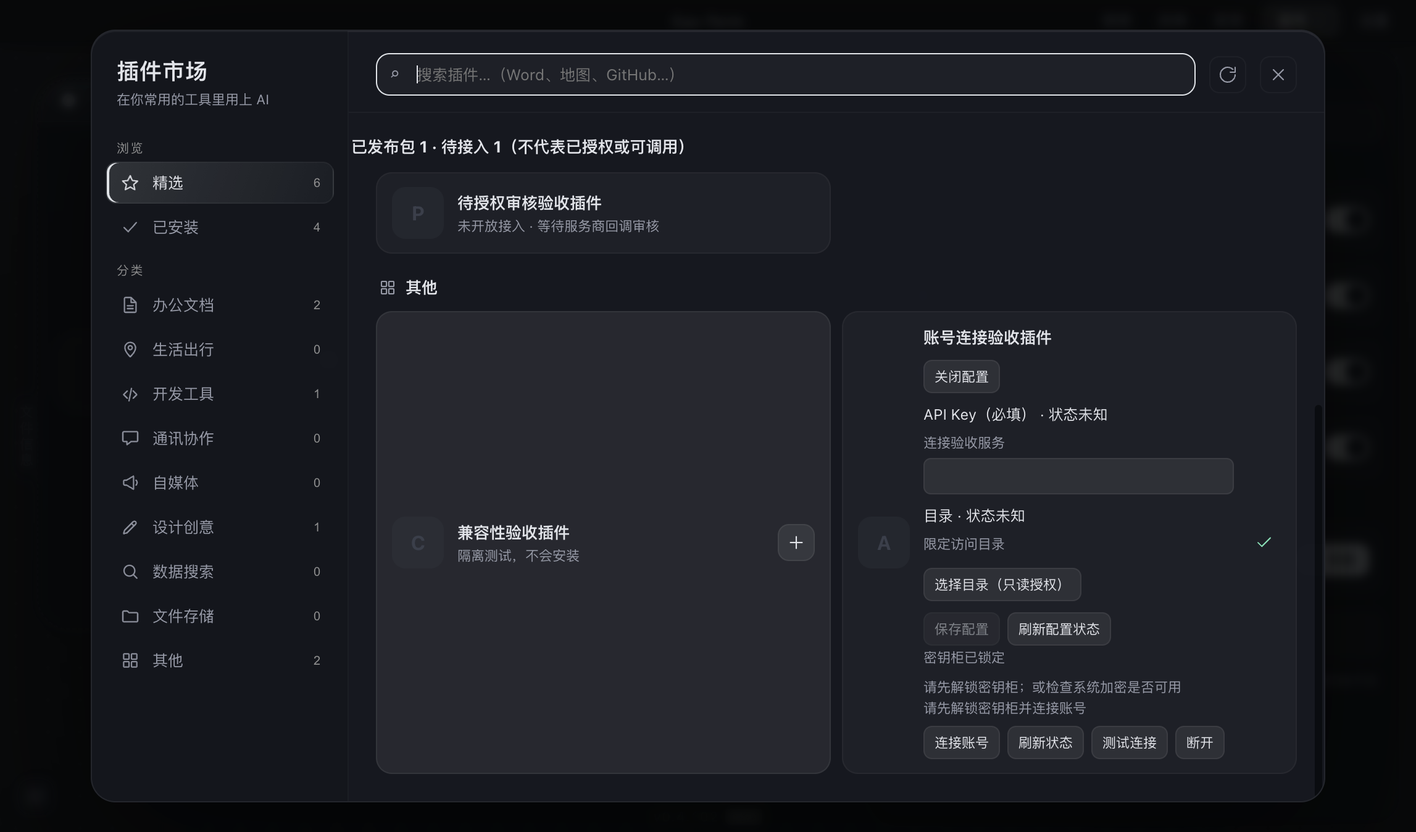
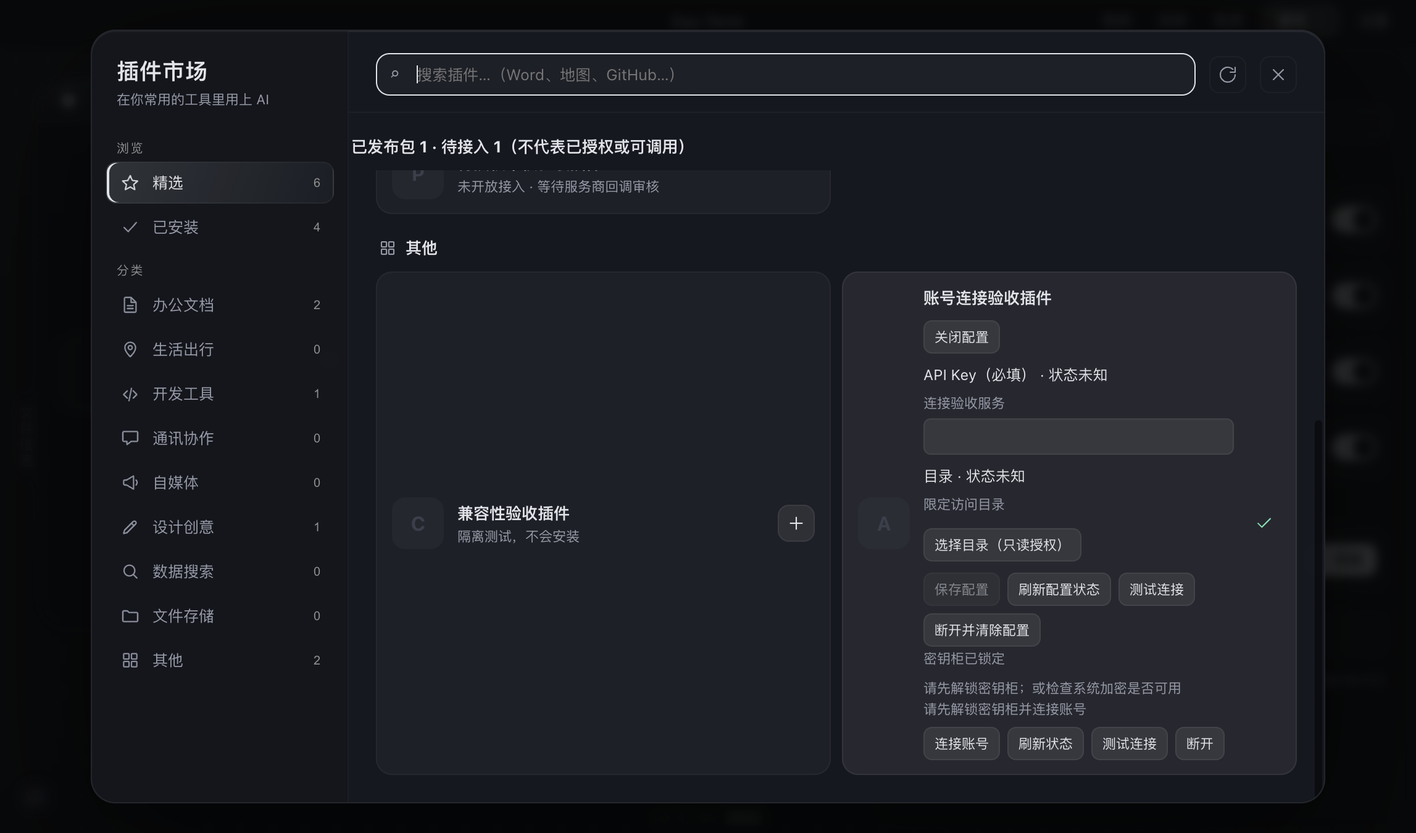
feat(plugins): test and revoke configured plugin connections

diff --git a/docs/verification/plugin-marketplace/progress.html b/docs/verification/plugin-marketplace/progress.html
@@ -1,16 +1,16 @@
-<!doctype html><html lang="zh-CN"><head><meta charset="utf-8"><meta name="viewport" content="width=device-width,initial-scale=1"><title>插件接入 · 实时进度</title><style>*{box-sizing:border-box}body{margin:0;background:#0a0a0a;color:#f5f5f5;font:15px/1.75 -apple-system,BlinkMacSystemFont,"PingFang SC",sans-serif}main{max-width:1080px;padding:28px;margin:auto}h1{font-size:29px;letter-spacing:-.02em;margin:8px 0}h2{font-size:12px;color:#a3a3a3;letter-spacing:.15em}section{background:rgba(23,23,23,.5);border:1px solid #262626;border-radius:14px;padding:20px;margin:18px 0}.muted{color:#a3a3a3}.warn{border-left:2px solid #fbbf24}.good{color:#6ee7b7}table{width:100%;border-collapse:collapse;font-size:13.5px}td{padding:9px;border-bottom:1px solid #262626}pre{background:#111;white-space:pre-wrap;overflow-wrap:anywhere;padding:16px;border-radius:12px;font-size:12px}.tw{overflow-x:auto}</style></head><body><main><h2>LIVE TASK STATUS / 本地轮询节点</h2><h1>插件市场统一接入</h1><p class="muted">按原 Demo 32 项接入 · 未上线 · 不修改正式应用</p><section class="warn"><b>通过 · Bearer接线与GitHub候选包完整检查</b><p>本次任务耗时 40 秒</p><p class="muted">最后采样：2026-09-18T08:28:06-07:00</p><p id="stale"></p></section><section><h2>DELIVERY / 交付阶段</h2><div class="tw"><table><tr><td>清单与设计</td><td class="good">已确认 · 32 项</td></tr><tr><td>兼容性门禁</td><td>代码已接线 · 不兼容拒绝已隔离 UI 验证</td></tr><tr><td>打包与安装边界</td><td>清单确认后防变更、普通更新失败回退已测试</td></tr><tr><td>远程 MCP / 统一授权</td><td>远程宿主、授权控件、连接测试已接线；真实账号端到端未验证</td></tr><tr><td>32 项插件接入</td><td>未完成；不以目录卡片计完成数</td></tr><tr><td>市场独立更新验收</td><td>未完成</td></tr></table></div></section><section><h2>PROCESS / 真实任务输出</h2><pre>✔ **data 握手必须带凭证之外的流水号，且流水号要够长** —— 不然能被抢流 (0.067042ms)
-✔ 切行：收全了给行和剩下的字节 (0.062583ms)
-✔ 切行：\r\n 也认 (0.054291ms)
-✔ 切行：没换行且没超长 → need-more (0.057125ms)
-✔ **切行：不发换行的连接要被掐掉**，不能一直缓冲 (0.053916ms)
-✔ 手机该连的主机名 (0.037583ms)
-✔ **读行要按 UTF-8 解** —— 错误原因是给人看的中文 (0.052084ms)
-✔ 多字节字符跨在换行两侧也不会切坏 (0.0355ms)
-ℹ tests 3374
+<!doctype html><html lang="zh-CN"><head><meta charset="utf-8"><meta name="viewport" content="width=device-width,initial-scale=1"><title>插件接入 · 实时进度</title><style>*{box-sizing:border-box}body{margin:0;background:#0a0a0a;color:#f5f5f5;font:15px/1.75 -apple-system,BlinkMacSystemFont,"PingFang SC",sans-serif}main{max-width:1080px;padding:28px;margin:auto}h1{font-size:29px;letter-spacing:-.02em;margin:8px 0}h2{font-size:12px;color:#a3a3a3;letter-spacing:.15em}section{background:rgba(23,23,23,.5);border:1px solid #262626;border-radius:14px;padding:20px;margin:18px 0}.muted{color:#a3a3a3}.warn{border-left:2px solid #fbbf24}.good{color:#6ee7b7}table{width:100%;border-collapse:collapse;font-size:13.5px}td{padding:9px;border-bottom:1px solid #262626}pre{background:#111;white-space:pre-wrap;overflow-wrap:anywhere;padding:16px;border-radius:12px;font-size:12px}.tw{overflow-x:auto}</style></head><body><main><h2>LIVE TASK STATUS / 本地轮询节点</h2><h1>插件市场统一接入</h1><p class="muted">按原 Demo 32 项接入 · 未上线 · 不修改正式应用</p><section class="warn"><b>通过 · 全量回归发现 PTY 启动超时：隔离复核原失败</b><p>本次任务耗时 55 秒</p><p class="muted">最后采样：2026-09-18T08:43:52-07:00</p><p id="stale"></p></section><section><h2>DELIVERY / 交付阶段</h2><div class="tw"><table><tr><td>清单与设计</td><td class="good">已确认 · 32 项</td></tr><tr><td>兼容性门禁</td><td>代码已接线 · 不兼容拒绝已隔离 UI 验证</td></tr><tr><td>打包与安装边界</td><td>清单确认后防变更、普通更新失败回退已测试</td></tr><tr><td>远程 MCP / 统一授权</td><td>远程宿主、授权控件、连接测试已接线；真实账号端到端未验证</td></tr><tr><td>32 项插件接入</td><td>未完成；不以目录卡片计完成数</td></tr><tr><td>市场独立更新验收</td><td>未完成</td></tr></table></div></section><section><h2>PROCESS / 真实任务输出</h2><pre>✔ **data 握手必须带凭证之外的流水号，且流水号要够长** —— 不然能被抢流 (0.092625ms)
+✔ 切行：收全了给行和剩下的字节 (0.079458ms)
+✔ 切行：\r\n 也认 (0.051292ms)
+✔ 切行：没换行且没超长 → need-more (0.033167ms)
+✔ **切行：不发换行的连接要被掐掉**，不能一直缓冲 (0.043125ms)
+✔ 手机该连的主机名 (0.040541ms)
+✔ **读行要按 UTF-8 解** —— 错误原因是给人看的中文 (0.041375ms)
+✔ 多字节字符跨在换行两侧也不会切坏 (0.048333ms)
+ℹ tests 3377
 ℹ suites 60
-ℹ pass 3356
+ℹ pass 3359
 ℹ fail 0
 ℹ cancelled 0
 ℹ skipped 18
 ℹ todo 0
-ℹ duration_ms 37402.16275</pre></section><p class="muted">运行时每 5 秒采样并刷新；结束后显示真实退出结果。页面轮询不会启动任务，也不会让 AI 在会话结束后自行继续开发。</p><p>反馈指令：<code>汇报当前阻碍</code></p></main><script>const age=(Date.now()-Date.parse('2026-09-18T08:28:06-07:00'))/1000;if(age>30&&false)document.getElementById('stale').textContent='采样已超过 30 秒未更新，任务状态待核实，不能据此认定仍在运行。';</script></body></html>
+ℹ duration_ms 39938.556625</pre></section><p class="muted">运行时每 5 秒采样并刷新；结束后显示真实退出结果。页面轮询不会启动任务，也不会让 AI 在会话结束后自行继续开发。</p><p>反馈指令：<code>汇报当前阻碍</code></p></main><script>const age=(Date.now()-Date.parse('2026-09-18T08:43:52-07:00'))/1000;if(age>30&&false)document.getElementById('stale').textContent='采样已超过 30 秒未更新，任务状态待核实，不能据此认定仍在运行。';</script></body></html>

diff --git a/src/main/pluginConnections/configurationActions.ts b/src/main/pluginConnections/configurationActions.ts
@@ -1,12 +1,14 @@
 import type {PluginInfo} from '../../shared/types'
-export type ConfigurationResult={ok:true;configured:string[]}|{ok:false;error:string}
+export type ConfigurationResult={ok:true;configured:string[];tools?:number}|{ok:false;error:string}
 interface Dependencies {
- acquire:()=>{assertActive:()=>void;dispose:()=>void}
+ acquire:(info:PluginInfo)=>{assertActive:()=>void;dispose:()=>void}
  find:(id:string)=>PluginInfo|undefined
- confirm:(info:PluginInfo)=>Promise<boolean>
+ confirm:(info:PluginInfo,action:'save'|'clear')=>Promise<boolean>
  assertIdle:(name:string)=>void
  load:(info:PluginInfo)=>Record<string,string>|undefined
  save:(info:PluginInfo,values:Record<string,string>)=>void
+ clear?:(info:PluginInfo)=>void
+ probe?:(info:PluginInfo)=>Promise<number>
  pickDirectory?:(info:PluginInfo,field:string)=>Promise<string|undefined>
 }
 export const configurationIdentity=(info:PluginInfo)=>JSON.stringify([info.name,info.root,info.config,info.mcp,info.remote,info.permissions])
@@ -16,10 +18,20 @@ export function createConfigurationActions(deps:Dependencies){
  return async(action:unknown,id:unknown,patch?:unknown):Promise<ConfigurationResult>=>{
   let lease:ReturnType<Dependencies["acquire"]>|undefined
   try{
-   if(typeof action!=='string'||!['status','save','directory'].includes(action)||typeof id!=='string'||!/^eas:[a-z0-9][a-z0-9-]{0,39}$/.test(id))throw Error('配置参数无效')
+   if(typeof action!=='string'||!['status','save','directory','test','clear'].includes(action)||typeof id!=='string'||!/^eas:[a-z0-9][a-z0-9-]{0,39}$/.test(id))throw Error('配置参数无效')
    const info=deps.find(id)
    if(!info||info.cli!=='eas'||!info.config)throw Error('插件没有配置声明')
-   if(action!=='status')lease=deps.acquire()
+   if(action!=='status')lease=deps.acquire(info)
+   if(action==='test'){
+    if(info.enabled===false||!deps.probe)throw Error('插件未启用或不支持测试连接')
+    const snapshot=configurationIdentity(info),tools=await deps.probe(info)
+    lease!.assertActive()
+    const current=deps.find(id)
+    if(!current||current.enabled===false||configurationIdentity(current)!==snapshot)throw Error('插件配置已变化，请重新测试')
+    if(!Number.isInteger(tools)||tools<0)throw Error('插件返回的工具列表无效')
+    const values=deps.load(info)??{}
+    return {ok:true,configured:info.config.fields.filter(f=>!!values[f.id]).map(f=>f.id),tools}
+   }
    if(action==='directory'){
     const field=info.config.fields.find(f=>f.id===patch&&f.type==='directory')
     if(!field||!deps.pickDirectory)throw Error('目录选择参数无效')
@@ -34,16 +46,17 @@ export function createConfigurationActions(deps:Dependencies){
     deps.save(info,values)
     return {ok:true,configured:info.config.fields.filter(f=>!!values[f.id]).map(f=>f.id)}
    }
-   if(action==='save'){
-    if(!patch||typeof patch!=='object'||Array.isArray(patch)||Object.keys(patch).length>32)throw Error('配置输入无效')
+   if(action==='save'||action==='clear'){
+    if(action==='save'&&(!patch||typeof patch!=='object'||Array.isArray(patch)||Object.keys(patch).length>32))throw Error('配置输入无效')
     const snapshot=configurationIdentity(info)
-    if(!await deps.confirm(info))return {ok:false,error:'已取消'}
+    if(!await deps.confirm(info,action))return {ok:false,error:'已取消'}
     lease!.assertActive()
     const current=deps.find(id)
     if(!current||configurationIdentity(current)!==snapshot)throw Error('插件配置已变化，请重新确认')
+    if(action==='clear'){if(!deps.clear)throw Error('清除配置不可用');deps.clear(info);return {ok:true,configured:[]}}
     deps.assertIdle(info.name)
     const values={...deps.load(info)}
-    for(const [key,value] of Object.entries(patch)){
+    for(const [key,value] of Object.entries(patch as Record<string,unknown>)){
      const field=info.config.fields.find(f=>f.id===key)
      if(!field)throw Error('存在未知配置字段')
      if(value===null){delete values[key];continue}

diff --git a/src/renderer/src/features/canvas/PluginConfigurationControls.tsx b/src/renderer/src/features/canvas/PluginConfigurationControls.tsx
@@ -4,15 +4,15 @@ export function PluginConfigurationControls({plugin}:{plugin:PluginInfo}):JSX.El
  const [open,setOpen]=useState(false),[busy,setBusy]=useState(false),[configured,setConfigured]=useState<string[]|null>(null),[draft,setDraft]=useState<Record<string,string|null>>({}),[message,setMessage]=useState('')
  const generation=useRef(0)
  useEffect(()=>()=>{generation.current++},[plugin.id])
- const run=async(action:'status'|'save'|'directory',field?:string)=>{
+ const run=async(action:'status'|'save'|'directory'|'test'|'clear',field?:string)=>{
   const seq=++generation.current;setBusy(true)
   try{
    const result=await window.api.plugins.configuration(action,plugin.id,action==='save'?draft:action==='directory'?field:undefined)
    if(seq!==generation.current)return
-   if(result.ok){setConfigured(result.configured);setMessage(action==='save'?'配置已保存；尚未测试连接，不代表插件可调用':'配置状态已刷新')}
+   if(result.ok){setConfigured(result.configured);setMessage(action==='test'?`连接测试通过：发现 ${result.tools} 个工具；未执行业务操作`:action==='clear'?'本地配置已清除；原连接已关闭，服务商授权需到上游撤销':action==='save'?'配置已保存；尚未测试连接，不代表插件可调用':'配置状态已刷新')}
    else {setConfigured(null);setMessage(result.error)}
   }catch{if(seq===generation.current)setMessage('配置操作失败，请重试')}
-  finally{if(seq===generation.current){setBusy(false);if(action==='save')setDraft({})}}
+  finally{if(seq===generation.current){setBusy(false);if(action==='save'||action==='clear')setDraft({})}}
  }
  return <div className="pm-auth" data-plugin-config={plugin.id}>
   <div className="pm-auth-actions"><button type="button" disabled={busy} onClick={()=>{setOpen(!open);setDraft({});if(!open)void run('status')}}>{open?'关闭配置':'配置插件'}</button></div>
@@ -23,7 +23,7 @@ export function PluginConfigurationControls({plugin}:{plugin:PluginInfo}):JSX.El
     {field.type==='directory'?<span className="pm-auth-actions"><button type="button" disabled={busy} onClick={()=>void run('directory',field.id)}>选择目录（{field.access==='read'?'只读':'读写'}授权）</button></span>:field.type==='enum'?<select disabled={busy} value={draft[field.id]??''} onChange={e=>setDraft(d=>({...d,[field.id]:e.target.value}))}><option value="" disabled>选择选项（不改则保留）</option>{field.options.map(o=><option key={o.value} value={o.value}>{o.label}</option>)}</select>:<input disabled={busy} autoComplete="off" type={field.type==='secret'?'password':'text'} maxLength={field.type==='string'?field.maxLength:16384} value={draft[field.id]??''} onChange={e=>setDraft(d=>{const n={...d};if(e.target.value)n[field.id]=e.target.value;else delete n[field.id];return n})}/>}
     {!field.required&&field.type!=='directory'&&<button type="button" disabled={busy} onClick={()=>setDraft(d=>({...d,[field.id]:null}))}>{draft[field.id]===null?'保存时清除':'清除此项'}</button>}
    </label>)}
-   <div className="pm-auth-actions"><button type="submit" disabled={busy||!Object.keys(draft).length}>保存配置</button><button type="button" disabled={busy} onClick={()=>void run('status')}>刷新配置状态</button></div>
+   <div className="pm-auth-actions"><button type="submit" disabled={busy||!Object.keys(draft).length}>保存配置</button><button type="button" disabled={busy} onClick={()=>void run('status')}>刷新配置状态</button><button type="button" disabled={busy||!!Object.keys(draft).length} onClick={()=>void run('test')}>测试连接</button><button type="button" disabled={busy} onClick={()=>void run('clear')}>断开并清除配置</button></div>
    <div className="pm-cd" role="status">{busy?'配置操作中…':message}</div>
   </form>}
  </div>

diff --git a/src/main/pluginConfiguration.ts b/src/main/pluginConfiguration.ts
@@ -1,3 +1,4 @@
+import {ConfigurationLeases} from './pluginConnections/configurationLeases.ts'
 import type {FetchLike} from '@modelcontextprotocol/sdk/shared/transport.js'
 import {connectBearerConfiguration} from './pluginConnections/bearerConfiguration.ts'
 import { configurationEnvironment } from './pluginConnections/configurationRuntime.ts'
@@ -9,12 +10,14 @@ import type {PluginInfo} from '../shared/types'
 import {acquirePluginCredentialAccess} from './secrets'
 import {PluginCredentialStore} from './pluginConnections/credentialStore.ts'
 import {configurationIdentity} from './pluginConnections/configurationActions.ts'
+const configurationLeases=new ConfigurationLeases()
+export const acquireConfigurationAccess=(info:PluginInfo)=>configurationLeases.bind(info.name,acquirePluginCredentialAccess())
 /** Fixed main-owned storage; no IPC caller path or credential namespace selection. */
 function access<T>(info:PluginInfo,op:(store:PluginCredentialStore,scope:{plugin:string;issuer:string;resource:string;account:string},lease:ReturnType<typeof acquirePluginCredentialAccess>)=>T):T{
  if(!app.isReady()||info.cli!=='eas'||!info.config)throw Error('插件配置不可用')
  const scope={plugin:info.name,issuer:'eas:configuration:v1',resource:createHash('sha256').update(configurationIdentity(info)).digest('hex'),account:'local-primary'}
  const store=new PluginCredentialStore(path.join(fs.realpathSync(app.getPath('userData')),'plugin-credentials'))
- const lease=acquirePluginCredentialAccess()
+ const lease=acquireConfigurationAccess(info)
  try{return op(store,scope,lease)}finally{lease.dispose()}
 }
 export const loadPluginConfiguration=(info:PluginInfo)=>access(info,(store,scope,lease)=>store.loadConfiguration(scope,lease))
@@ -23,7 +26,7 @@ export const savePluginConfiguration=(info:PluginInfo,values:Record<string,strin
 /** Long-lived lease: locking the vault closes precisely the configured child. */
 export function connectPluginConfiguration(info:PluginInfo){
  if(!app.isReady()||info.cli!=='eas'||!info.config)throw Error('插件配置不可用')
- const lease=acquirePluginCredentialAccess()
+ const lease=acquireConfigurationAccess(info)
  try{
   const scope={plugin:info.name,issuer:'eas:configuration:v1',resource:createHash('sha256').update(configurationIdentity(info)).digest('hex'),account:'local-primary'}
   const store=new PluginCredentialStore(path.join(fs.realpathSync(app.getPath('userData')),'plugin-credentials'))
@@ -36,10 +39,16 @@ export function connectPluginConfiguration(info:PluginInfo){
 /** Holds the original vault lease for the entire remote connection. */
 export function connectPluginBearer(info:PluginInfo,fetch:FetchLike){
  if(!app.isReady()||info.cli!=='eas'||info.remote?.auth!=='bearer')throw Error('Bearer配置不可用')
- const lease=acquirePluginCredentialAccess()
+ const lease=acquireConfigurationAccess(info)
  try{
   const scope={plugin:info.name,issuer:'eas:configuration:v1',resource:createHash('sha256').update(configurationIdentity(info)).digest('hex'),account:'local-primary'}
   const store=new PluginCredentialStore(path.join(fs.realpathSync(app.getPath('userData')),'plugin-credentials'))
   return connectBearerConfiguration({info,lease,fetch,load:()=>store.loadConfiguration(scope,lease)})
  }catch(error){lease.dispose();throw error}
+}
+
+/** Atomically replace current encrypted values, then revoke only this plugin's old leases. */
+export function clearPluginConfiguration(info:PluginInfo){
+ savePluginConfiguration(info,{})
+ configurationLeases.invalidate(info.name)
 }

diff --git a/src/main/plugins.ts b/src/main/plugins.ts
@@ -1,7 +1,6 @@
-import { acquirePluginCredentialAccess } from './secrets'
 import { createDirectoryGrant } from './pluginConnections/directoryGrant.ts'
 import { createConfigurationActions } from './pluginConnections/configurationActions.ts'
-import { loadPluginConfiguration, savePluginConfiguration } from './pluginConfiguration'
+import { loadPluginConfiguration, savePluginConfiguration, clearPluginConfiguration, acquireConfigurationAccess } from './pluginConfiguration'
 import { createAuthorizationActions } from './pluginConnections/authorizationActions.ts'
 import { getPluginAuthorization } from './pluginAuthorization'
 import { BrowserWindow, dialog } from 'electron'
@@ -258,8 +257,8 @@ export function registerPluginHandlers(): void {
   guardedHandle('plugins:configuration', async(event,args:{action?:unknown;id?:unknown;values?:unknown})=>{
     const win=BrowserWindow.fromWebContents(event.sender)
     if(!win||win.isDestroyed())return {ok:false,error:'工作台窗口已关闭'}
-    const {assertPluginPackageIdle}=await import('./pluginHost')
-    return createConfigurationActions({acquire:acquirePluginCredentialAccess,find:findPlugin,load:loadPluginConfiguration,save:savePluginConfiguration,assertIdle:assertPluginPackageIdle,pickDirectory:async(info,id)=>{
+    const {assertPluginPackageIdle,testPluginConnection}=await import('./pluginHost')
+    return createConfigurationActions({acquire:acquireConfigurationAccess,clear:clearPluginConfiguration,probe:testPluginConnection,find:findPlugin,load:loadPluginConfiguration,save:savePluginConfiguration,assertIdle:assertPluginPackageIdle,pickDirectory:async(info,id)=>{
       const field=info.config!.fields.find(f=>f.id===id)!
       if(field.type!=='directory')throw Error('目录字段无效')
       const picked=await dialog.showOpenDialog(win,{title:`${info.displayName} · ${field.label} · ${field.access==='read'?'只读':'读写'}授权`,properties:['openDirectory']})
@@ -267,7 +266,8 @@ export function registerPluginHandlers(): void {
       const grant=createDirectoryGrant(picked.filePaths[0],field.access)
       const confirm=await dialog.showMessageBox(win,{type:'warning',title:'确认插件目录授权',message:`允许「${info.displayName}」${field.access==='read'?'读取':'读写'}此目录？`,detail:`${JSON.parse(grant).path}\n用途：${field.purpose}\nstdio插件是本机代码，这不是操作系统沙箱。`,buttons:['取消','授权此目录'],defaultId:0,cancelId:0})
       return confirm.response===1&&!win.isDestroyed()?grant:undefined
-    },confirm:async info=>{
+    },confirm:async (info,action)=>{
+      if(action==='clear'){const r=await dialog.showMessageBox(win,{type:'warning',title:'断开并清除插件配置',message:`清除「${info.displayName}」的本地配置和目录授权？`,detail:'将关闭该插件依赖配置的本地连接。不删除业务文件，不撤销上游已发生的操作或服务商授权。重新使用需重新配置。',buttons:['取消','断开并清除'],defaultId:0,cancelId:0});return r.response===1&&!win.isDestroyed()}
       const result=await dialog.showMessageBox(win,{type:'question',title:'保存插件配置',message:`保存「${info.displayName}」的配置？`,detail:'配置加密保存在本机，密钥不回显。配置变更不会自动启动插件或连接服务。目录必须单独授权。',buttons:['取消','保存'],defaultId:0,cancelId:0})
       return result.response===1&&!win.isDestroyed()
     }})(args?.action,args?.id,args?.values)

diff --git a/src/main/pluginConnections/configurationActions.test.ts b/src/main/pluginConnections/configurationActions.test.ts
@@ -52,3 +52,20 @@ test('locking and unlocking during either native dialog irreversibly invalidates
   assert.equal(writes,0);assert.equal(disposed,1)
  }
 })
+
+test('configuration test probes shared host without saving, returns tool count only, and rejects stale success',async()=>{
+ const leases=new CredentialLeases(()=>true);let probes=0,writes=0,mode='ok',current=info
+ const run=createConfigurationActions({acquire:()=>leases.acquire(),find:()=>current,confirm:async()=>true,assertIdle(){},load:()=>({key:'private',region:'cn'}),save:()=>{writes++},probe:async()=>{probes++;if(mode==='lock')leases.invalidate();if(mode==='change')current={...info,root:'/changed'};return 3}})
+ assert.deepEqual(await run('test',info.id),{ok:true,configured:['key','region'],tools:3})
+ assert.equal(writes,0);assert.equal(probes,1)
+ mode='lock';assert.equal((await run('test',info.id)).ok,false)
+ mode='change';assert.equal((await run('test',info.id)).ok,false)
+ current={...info,enabled:false};assert.equal((await run('test',info.id)).ok,false);assert.equal(probes,3)
+})
+
+test('clear asks explicitly and clears without requiring inactive host; cancellation preserves configuration',async()=>{
+ let cleared=0,allowed=false,confirmation=''
+ const run=createConfigurationActions({acquire,find:()=>info,confirm:async(_info,action)=>{confirmation=action;return allowed},assertIdle(){throw Error('active host must be invalidated, not ignored')},load:()=>({key:'private'}),save:()=>{throw Error('ordinary save not allowed')},clear:()=>{cleared++}})
+ assert.equal((await run('clear',info.id)).ok,false);assert.equal(cleared,0)
+ allowed=true;assert.deepEqual(await run('clear',info.id),{ok:true,configured:[]});assert.equal(cleared,1);assert.equal(confirmation,'clear')
+})

diff --git a/src/main/pluginConnections/configurationLeases.ts b/src/main/pluginConnections/configurationLeases.ts
@@ -1,0 +1,16 @@
+type Lease={signal:AbortSignal;assertActive():void;dispose():void}
+/** Revocation is plugin-scoped and irreversible for both dialogs and live connections. */
+export class ConfigurationLeases {
+ private readonly scopes=new Map<string,Set<AbortController>>()
+ bind<T extends Lease>(name:string,lease:T):T{
+  const controllers=this.scopes.get(name)??new Set<AbortController>(),controller=new AbortController()
+  this.scopes.set(name,controllers);controllers.add(controller)
+  const signal=AbortSignal.any([lease.signal,controller.signal])
+  return {...lease,signal,assertActive:()=>{lease.assertActive();if(signal.aborted)throw Error('插件配置授权已失效')},dispose:()=>{
+   controller.abort();controllers.delete(controller)
+   if(!controllers.size&&this.scopes.get(name)===controllers)this.scopes.delete(name)
+   lease.dispose()
+  }}
+ }
+ invalidate(name:string){const controllers=this.scopes.get(name);this.scopes.delete(name);for(const c of controllers??[])c.abort()}
+}

diff --git a/src/preload/index.ts b/src/preload/index.ts
@@ -1133,7 +1133,7 @@ const api = {
     showLog: (): Promise<{ ok: boolean }> => ipcRenderer.invoke('diag:showLog')
   },
   plugins: {
-    configuration: (action: 'status'|'save'|'directory', id: string, values?: Record<string,string|null>|string): Promise<{ok:true;configured:string[]}|{ok:false;error:string}> => ipcRenderer.invoke('plugins:configuration', {action,id,values}),
+    configuration: (action: 'status'|'save'|'directory'|'test'|'clear', id: string, values?: Record<string,string|null>|string): Promise<{ok:true;configured:string[];tools?:number}|{ok:false;error:string}> => ipcRenderer.invoke('plugins:configuration', {action,id,values}),
     authorization: (action: PluginAuthorizationAction, id: string): Promise<PluginAuthorizationResult> => ipcRenderer.invoke('plugins:authorization', {action,id}),
     /** 已装的 CLI 插件全表。**每次都当场扫盘**（见 main/plugins.ts），
      *  用户刚在终端里装完一个，回画布就能看到，不用重开软件。 */

diff --git a/src/main/pluginConnections/configurationLeases.test.ts b/src/main/pluginConnections/configurationLeases.test.ts
@@ -1,0 +1,11 @@
+import {test} from 'node:test'
+import assert from 'node:assert/strict'
+import {CredentialLeases} from './credentialLease.ts'
+import {ConfigurationLeases} from './configurationLeases.ts'
+test('clearing one plugin revokes pending writes and runtime leases, but not other plugins or future authorization',()=>{
+ const vault=new CredentialLeases(()=>true),scopes=new ConfigurationLeases()
+ const pending=scopes.bind('one',vault.acquire()),runtime=scopes.bind('one',vault.acquire()),other=scopes.bind('two',vault.acquire())
+ scopes.invalidate('one');assert.equal(runtime.signal.aborted,true);assert.throws(()=>pending.assertActive());other.assertActive()
+ const next=scopes.bind('one',vault.acquire());next.assertActive();pending.dispose();runtime.dispose();next.assertActive()
+ vault.invalidate();assert.equal(next.signal.aborted,true);assert.throws(()=>other.assertActive());next.dispose();other.dispose()
+})

diff --git a/docs/architecture/13-所有权矩阵.md b/docs/architecture/13-所有权矩阵.md
@@ -278,8 +278,10 @@ Wikipedia地址策略同步：修改endpointPolicy公开地址判据时需运行
 
 路径同步补充：批准的 v2 位置为 `v2/registry.json`，builder/publisher/tests/CLI 输出说明保持一致；发布暂存和备份扁平名必须区分两个 registry.json，禁止只取 basename。客户端 URL 切换仍待独立验收。
 
-配置接口同步链：preload.plugins.configuration / plugins.ts guarded handler / configurationActions / pluginConfiguration / CredentialStore / PluginConfigurationControls。不得把status改成返回配置值或允许renderer指定scope/path/endpoint。目录选择已由主进程原生选择器及二次确认生成 inode/access grant；stdio 专属配置环境与长期租约已接线。remote+config 仍未接通，保留该组合的启动拒绝。
+配置接口同步链：preload.plugins.configuration / plugins.ts guarded handler / configurationActions / pluginConfiguration / CredentialStore / PluginConfigurationControls。不得把status改成返回配置值或允许renderer指定scope/path/endpoint。目录选择已由主进程原生选择器及二次确认生成 inode/access grant；stdio 专属配置环境与长期租约已接线。remote+config 仅严格 Bearer 单 secret 组合接通，其他组合保持失败关闭。
 
-配置确认代次同步：configurationActions.acquire 必须由 plugins.ts 注入 acquirePluginCredentialAccess；租约覆盖原生保存/选目录对话，返回后先 assertActive，再同步校验/写入，finally dispose。锁定再解锁不能复活旧确认。configured stdio 经 pluginHost 向 McpClient 传 suppressStderr，错误输出只消费不持久化；握手错误日志也隐藏原始详情。此为日志边界，不承诺恶意插件的工具结果不会返回秘密。
+配置确认代次同步：configurationActions.acquire 必须由 plugins.ts 注入 acquireConfigurationAccess（叠加插件级与密钥柜级租约）；租约覆盖原生保存/选目录对话，返回后先 assertActive，再同步校验/写入，finally dispose。锁定再解锁不能复活旧确认。configured stdio 经 pluginHost 向 McpClient 传 suppressStderr，错误输出只消费不持久化；握手错误日志也隐藏原始详情。此为日志边界，不承诺恶意插件的工具结果不会返回秘密。
 
-Bearer契约同步：shared.PluginInfo.remote 判别 auth=bearer → pluginManifest secret引用解析 → pluginConfiguration 固定配置scope → bearerConfiguration → pluginHost remote分支。与OAuth凭证存储分开，不新增token明文字段/任意header映射。配置表单已有secret保存，但连接测试/清除操作UI仍需统一，不将候选包视为可用。
+Bearer契约同步：shared.PluginInfo.remote 判别 auth=bearer → pluginManifest secret引用解析 → pluginConfiguration 固定配置scope → bearerConfiguration → pluginHost remote分支。与OAuth凭证存储分开，不新增token明文字段/任意header映射。配置表单统一提供 secret 保存、测试连接和断开清除；真实供应商验收仍独立，不将候选包视为可用。
+
+配置 test/clear 同步：configurationActions → plugins.ts → preload → PluginConfigurationControls。test 复用 testPluginConnection，只列工具、不调用业务工具，返回前复核租约/清单/启用状态；clear 原生确认后原子写当前 scope 的空密文，再经 ConfigurationLeases.invalidate(name) 撤销所属插件旧连接及悬挂保存。新授权可取得新代次，不清其他插件，不删除业务文件，不宣称撤销上游授权或所有历史 scope。禁止把 clear 改成要求宿主 idle（其目的就是主动断开）。

diff --git a/memory/plugin-market-unified-2026-09-18.md b/memory/plugin-market-unified-2026-09-18.md
@@ -149,3 +149,11 @@ PluginCredentialStore增加saveConfiguration/loadConfiguration，OAuth原有vers
 红测覆盖清单拒绝旧实现、Bearer host被旧闸拦；随后实际三shim/真实HTTP共用连接测试新增bearer情形通过。新增GitHub候选包，官方端点/PAT文档重核并落README/audit；真实打包通过，不进入默认目录、不提前广告remote/bearer能力、不借用户CLI token。不能增加已验业务插件数。
 57194 typecheck失败（空对象case数组推断token?:undefined），原错误已读，改测试数组显式Record类型；86801 typecheck/build/隔离兼容UI11项退出0，账号控件截图已眼验；它只是既有UI回归，不是Bearer配置/真实账号E2E。99301完整check退出0：3374项/3356通过/18skip/0失败。所有命令已结束；无生产发布/实际GitHub账号出站。
 下一完整里程碑：给配置插件（包括Bearer）接软件“测试连接/断开清除”动作并做真实隔离app密文保存→remote shared host→三shim→锁定验收。现PluginConfigurationControls只有status/save/directory；OAuth专属测试不适用于Bearer。候选GitHub仍需真实用户提供令牌（软件控件而非聊天）和上游调用，实际模型/Windows仍缺。其余清单自主工程仍未完成，不能笼统归因只等账号。保持active，不向用户再发未完成阶段性汇报。
+
+## 继续：配置测试与清除真实应用闭环
+统一配置入口已加 test/clear，复用共享宿主工具列表，不跑业务工具；clear 原生确认后写当前 scope 空密文并撤销插件级租约，阻止旧 shim 与待确认保存，不影响其他插件/业务文件/新授权。ConfigurationLeases 和 controller 红绿测试已通过。原生确认期间锁定重开保护不变。
+89636 最终退出0：实际隔离应用 local-files 23项与兼容 UI 11项通过；截图已眼验并复用 Frame cnode-115-7jnie。首次重授权读取失败“插件进程不在（先 initialize）”，修正验收脚本在重授权后重新 initialize，没有放松生产宿主协议。此前 UI 红测“配置卡片提供真实测试连接入口”失败也已复现。原生 picker/确认返回值仍为测试适配，不是实际模型CLI。
+22015完整check退出1：3377项/3358通过/18跳过/1失败，capabilityPtyLauncher真实POSIX Ctrl-C夹具在3秒等待内报 RuntimeError: native CLI not ready；原日志 /tmp/eas-plugin-config-clear-check.log。未改测试超时/断言，63564正在隔离重跑原测试再完整check，取结果后才能下结论。构建和实际UI已于前一执行批次通过，本次生产代码未再变化。
+Bearer隔离UI脚本生成被PreToolUse shell解析器阻止（Bad substitution: JSON.stringify），文件未生成、未执行；不能称该验收完成。下一步用apply_patch创建脚本，保留真实safeStorage/host/三shim，只有自有fixture网络和native确认适配，不动公共地址检查，不用真实凭证。目标仍active，其余32插件工程缺口没消失。
+
+63564最终退出0：原PTY专项12项通过，完整check复跑3377项/3359通过/18skip/0失败。保留前次超时事实，不宣称根除时序抖动。所有本批监测结束；local-files实际应用23项与旧兼容UI11项已通过且截图已眼验。下一步Bearer真实隔离app纵向验收尚未执行，目标不完成。
